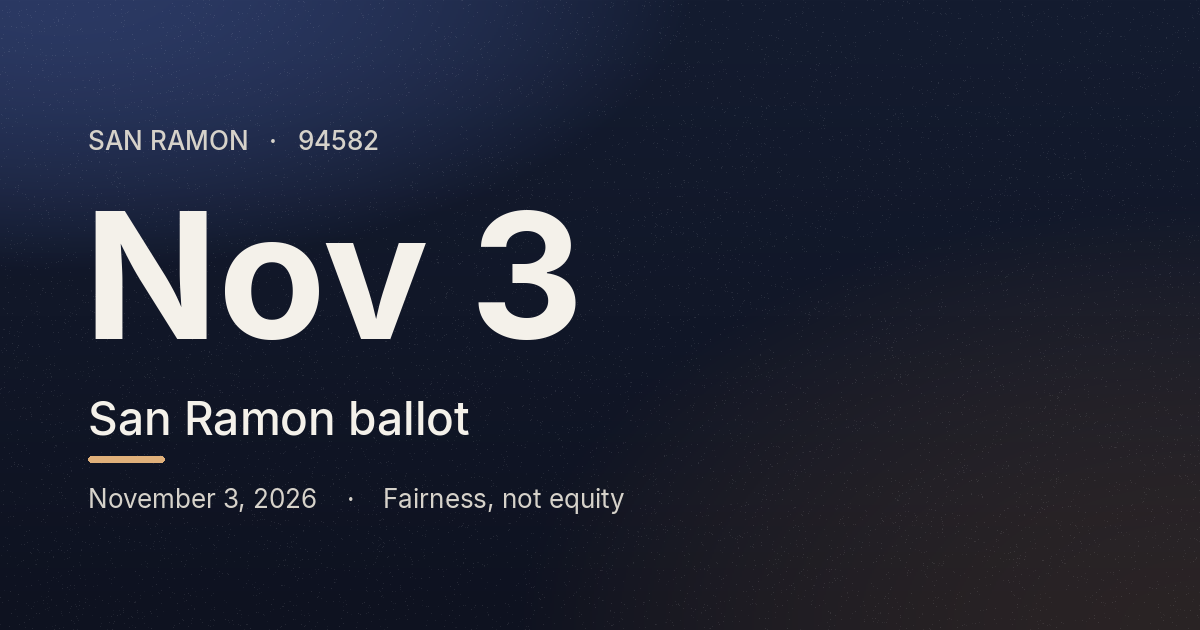
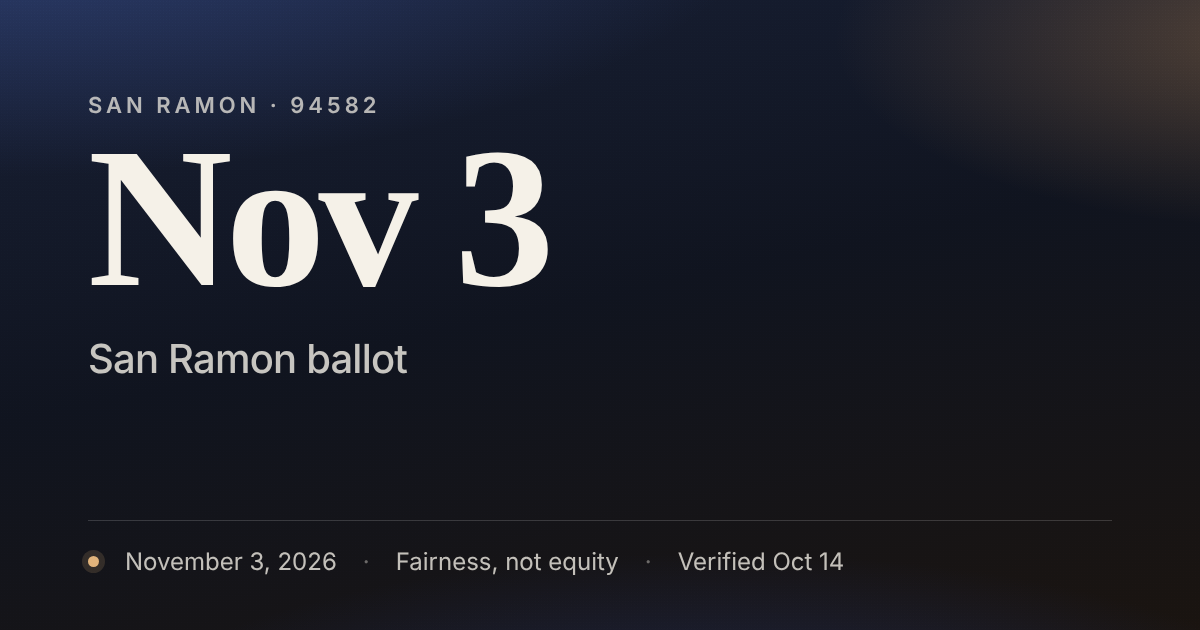
Redraw the social preview image and fix two confidence-rule doc lines.
The preview image for messages matches the new hero. SKILL.md now states
the strong-evidence condition for a High label, matching
scoring/confidence-levels.md. The conversational sample no longer shows
a confidence label on a row with no scores.

Claude-Session: https://claude.ai/code/session_01WiEMQwrhKA4b1WoPU4iZ9m

diff --git a/CHANGELOG.md b/CHANGELOG.md
@@ -6,9 +6,9 @@ The public page still starts every weight equal; that is by design. The private 
 
 The repo now carries the version that was live on Vercel, which had a driver note under each score, safe-area padding, a web manifest, and the icon set.
 
-Fixes from a review of the branch: a `tab=` link scrolls to its section instead of being reset to Offices by the scroll spy; an abstention under adjusted weights no longer reads "Your weights pick No pick"; the confidence label is taken from the same two-decimal gap the page prints; the At a glance chips retune once per width change rather than on every resize event; the unlocking hash is removed from the address bar once it has been stored; the duplicate pill helper is gone. `SKILL.md` still restates the High rule without the strong-evidence condition, and the owner token is still readable in the page source. Neither is changed here.
+Fixes from a review of the branch: a `tab=` link scrolls to its section instead of being reset to Offices by the scroll spy; an abstention under adjusted weights no longer reads "Your weights pick No pick"; the confidence label is taken from the same two-decimal gap the page prints; the At a glance chips retune once per width change rather than on every resize event; the unlocking hash is removed from the address bar once it has been stored; the duplicate pill helper is gone. The owner token is still readable in the page source; that is not changed here.
 
-Design: warm paper and ink instead of gray, a serif for the date, headlines, section titles, and proposition numbers, and tabular figures throughout. A race card lists both candidates with a bar each, the pick in accent and the runner-up muted, in place of the tinted winner box and the single shared bar. Confidence pills carry a dot and a tint. The sticky controls are shorter. Flip-through cards show "How the scores were set" under the reason so the card is not mostly empty. The dark theme follows the same palette. The preview image for messages was not redrawn.
+Design: warm paper and ink instead of gray, a serif for the date, headlines, section titles, and proposition numbers, and tabular figures throughout. A race card lists both candidates with a bar each, the pick in accent and the runner-up muted, in place of the tinted winner box and the single shared bar. Confidence pills carry a dot and a tint. The sticky controls are shorter. Flip-through cards show "How the scores were set" under the reason so the card is not mostly empty. The dark theme follows the same palette. The preview image for messages is redrawn to match. `SKILL.md` now states the strong-evidence condition for High, and the conversational sample no longer carries a label without scores.
 
 ## October 16, 2026 — glance chips
 

diff --git a/deliverables/conversational.md b/deliverables/conversational.md
@@ -74,7 +74,7 @@ Every conversational output should include:
 
 ## Sample single-race output
 
-> **Pick: Stacy Korsgaden (R)** — Medium confidence. High would require a recomputed gap of 15 or more under `scoring/confidence-levels.md`. This illustration does not show that gap, so it does not use High.
+> **Pick: Stacy Korsgaden (R).** The confidence label comes from the recomputed gap under `scoring/confidence-levels.md`. This illustration shows no composites, so it carries no label; a real write-up states the two composites and the gap here, then the label.
 >
 > Korsgaden has 30+ years running an insurance agency, which makes her the only candidate in the field who actually understands the market dynamics driving carriers out of California. The framework weights industry-relevant experience heavily for regulatory offices, and her platform (faster rate approval, market competition to attract carriers back) addresses the actual mechanism behind the non-renewal crisis rather than the political framing of it.
 >

diff --git a/SKILL.md b/SKILL.md
@@ -85,7 +85,7 @@ Step 4: **Assign confidence or abstain.**
 Follow `scoring/confidence-levels.md` only. Do not copy a looser definition into the write-up.
 
 - High, Medium, and Low apply to scored candidate picks and to measure picks that completed the tests.
-- High on a scored candidate requires a gap of 15 or more and a sensitivity check that does not change the leader.
+- High on a scored candidate requires a gap of 15 or more, strong evidence behind the criterion scores (a statute, a case file, or an official fiscal text, not a campaign summary or a news report), and a sensitivity check that does not change the leader.
 - Abstain and "not scored" get no confidence label.
 - A low-confidence pick says, in so many words, that the voter should push back.
 
